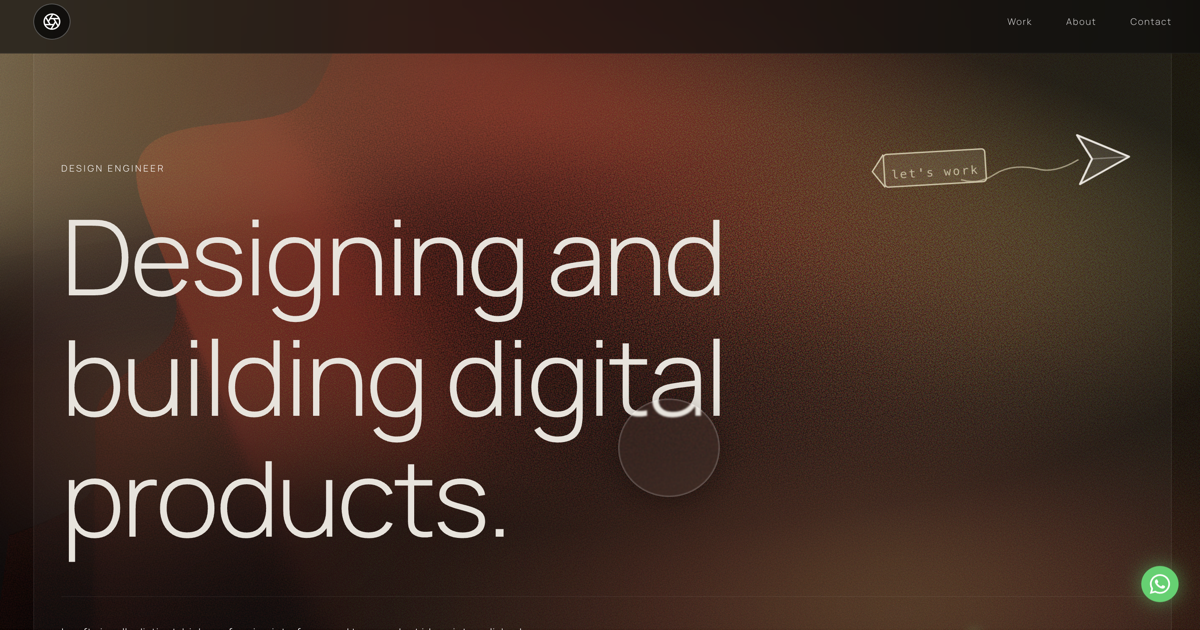
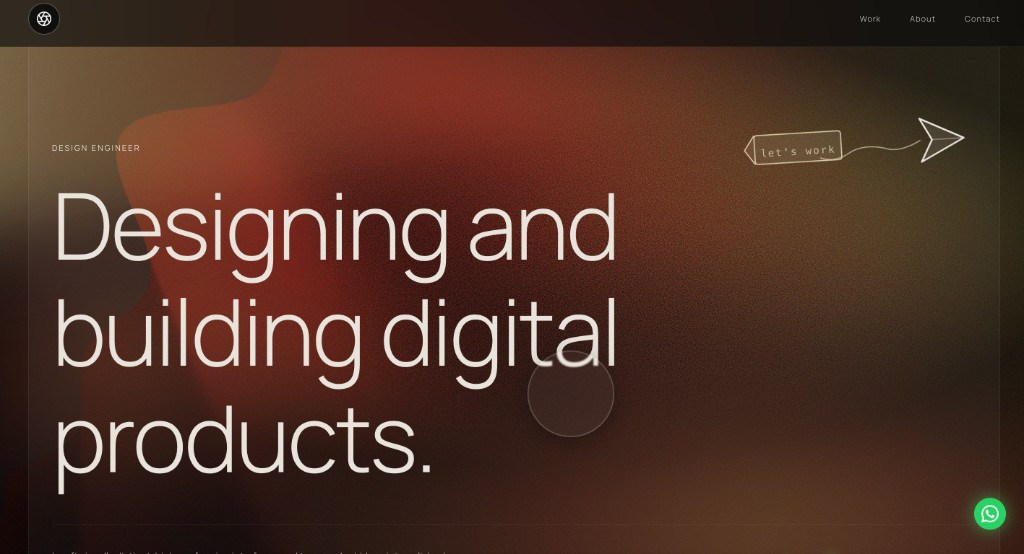
Update social preview image to the provided screenshot.
Replace the Open Graph image asset and align metadata dimensions so link previews on social platforms render the intended hero visual.

Made-with: Cursor

diff --git a/src/app/layout.tsx b/src/app/layout.tsx
@@ -30,8 +30,8 @@ export const metadata: Metadata = {
     images: [
       {
         url: "/images/og-image.png",
-        width: 1200,
-        height: 630,
+        width: 1024,
+        height: 554,
         alt: "Ian O — Design Engineer",
       },
     ],
